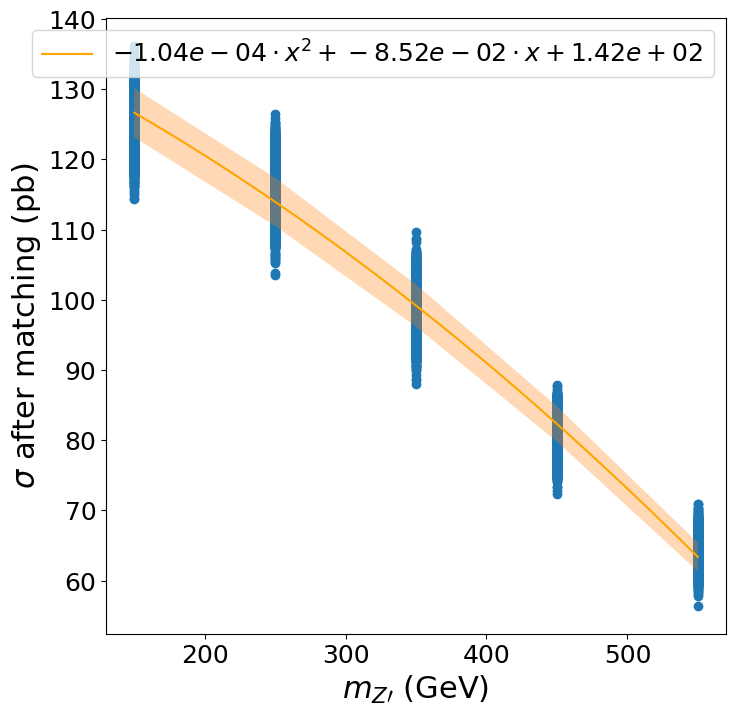
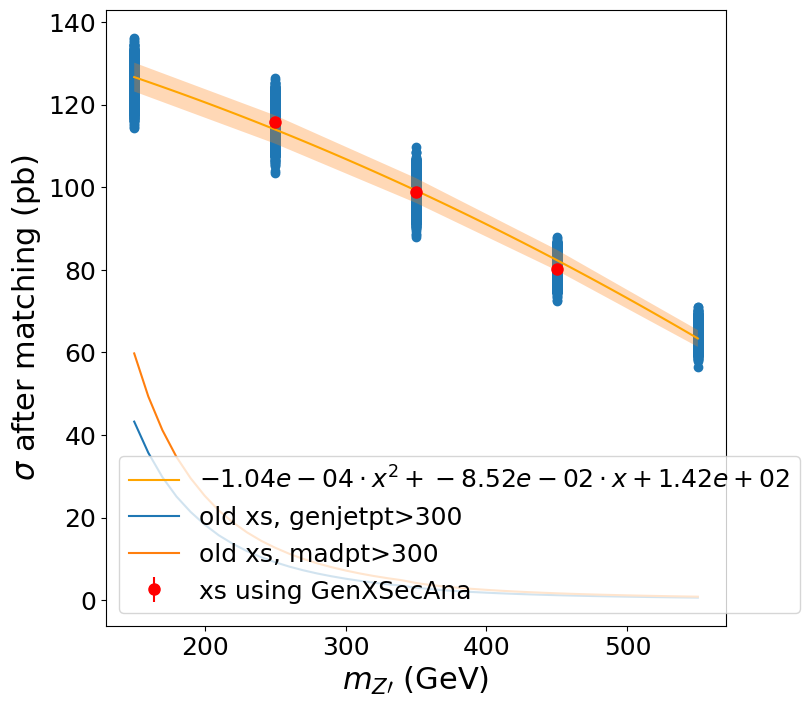
updated readme

diff --git a/madpt_eff.py b/madpt_eff.py
@@ -124,6 +124,38 @@ def main():
     ax.scatter(x_raw, y_raw)
     ax.plot(mz_fine, xs_fine, c='orange', label=f'${fit[0]:.2e}\cdot x^{{2}}+{fit[1]:.2e}\cdot x+{fit[2]:.2e}$')
 
+
+    # ___________________________________________________
+    # TEMPORARY EXTRAS FOR PLOTTING
+
+    # GenXSecAnalyzer
+    mz_genxsec = np.array([250., 350., 450.])
+    after_filter_xs = np.array([6.868e+01, 5.597e+01, 4.409e+01])
+    after_filter_xs_err = np.array([1.134e-01, 9.734e-02, 7.976e-02])
+    filter_eff = np.array([5.932e-01, 5.669e-01, 5.493e-01])
+    filter_eff_err = np.array([8.071e-04, 8.217e-04, 8.323e-04])
+    ax.errorbar(
+        mz_genxsec, after_filter_xs/filter_eff, after_filter_xs_err/filter_eff, None,
+        'o', c='red', label='xs using GenXSecAna', markersize=8
+        )
+
+    f_genjetpteff = np.poly1d([3.66e-8, -6.76e-7, 1.12e-5])
+    d = np.load('crosssections_Oct12.npz')
+    mz_oldxs = d['mz']
+    xs_oldxs = d['xs'][:]
+    xs_oldxs_err = d['dxs']
+    keep = (mz_oldxs >= 150.) & (mz_oldxs <= 550.)
+    mz_oldxs = mz_oldxs[keep]
+    xs_oldxs = xs_oldxs[keep]
+    xs_oldxs_err = xs_oldxs_err[keep]
+    xs_oldxs *= f_genjetpteff(300.)
+    xs_oldxs_err *= f_genjetpteff(300.)
+
+    ax.plot(mz_oldxs, xs_oldxs, label='old xs, genjetpt>300')
+    ax.plot(mz_oldxs, d['xs'][keep]*(10./2332.), label='old xs, madpt>300')
+
+
+
     # Fit error: very tiny, ignore
     # err = calc_errs(mz_fine, cov)
     # ax.fill_between(mz_fine, xs_fine-err, xs_fine+err, alpha=.3)

diff --git a/README.md b/README.md
@@ -1,4 +1,4 @@
-# Latestoosted SVJ cross sections
+# Latest boosted SVJ cross sections
 
 ## Get the GenXSecAnalyzer reports
 
